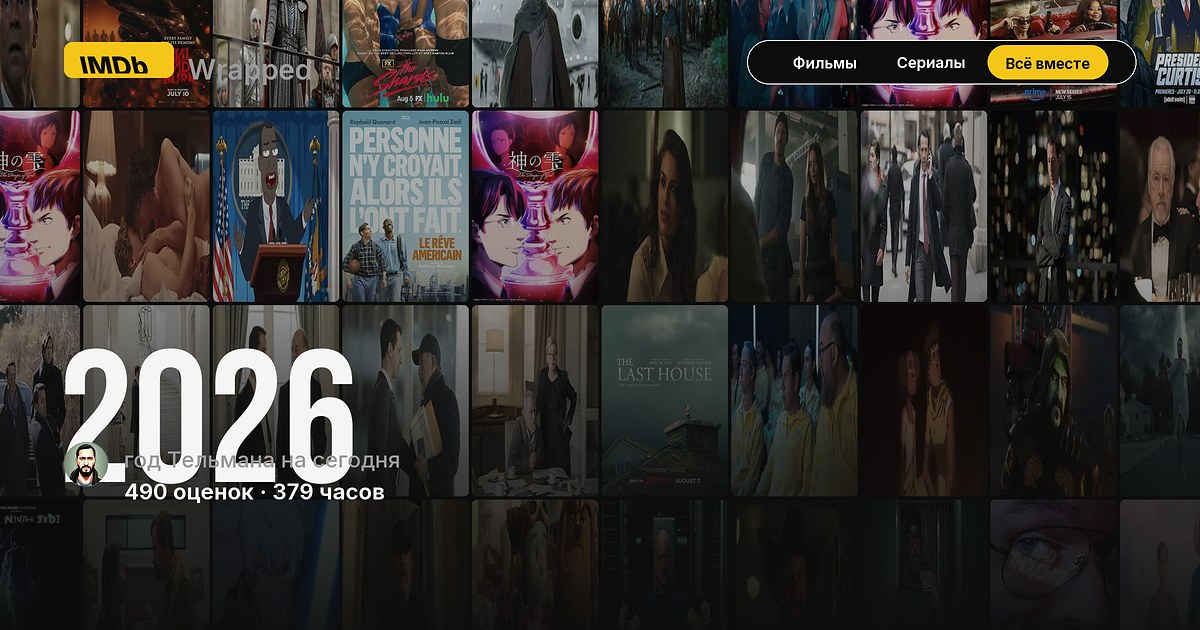
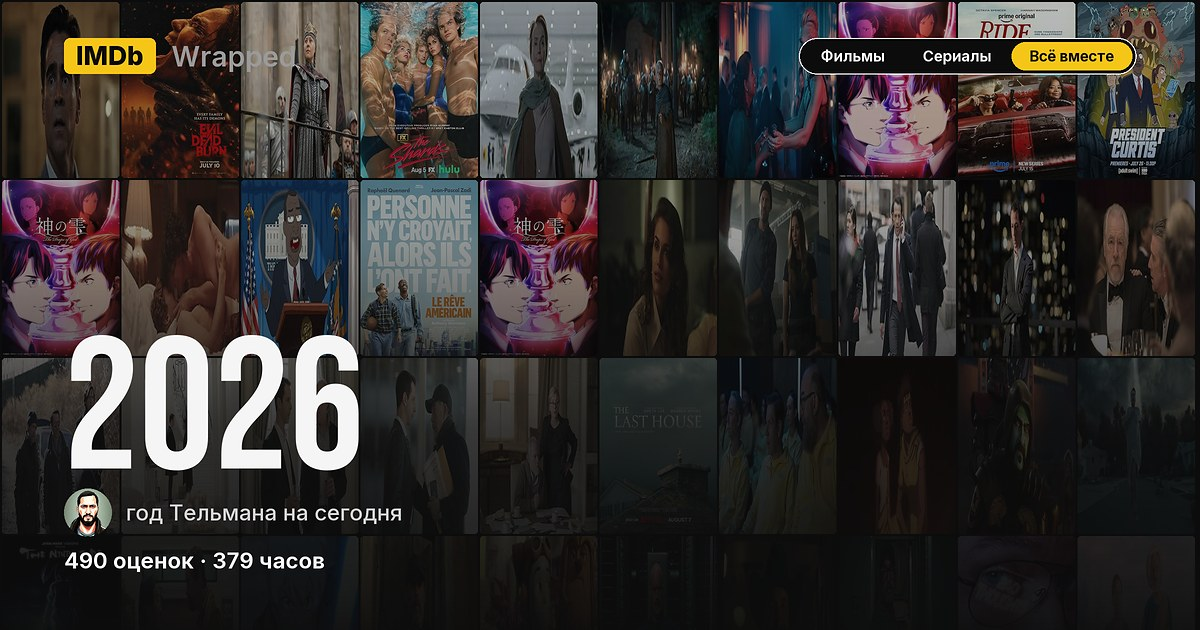
Align Open Graph cards so the year, brand, and kind switch sit on a clean grid.

diff --git a/scripts/build_og.py b/scripts/build_og.py
@@ -30,6 +30,7 @@ CTX = ssl.create_default_context()
 W, H = 1200, 630
 SCALE = 2
 CW, CH = W * SCALE, H * SCALE
+CACHE_BUST = "2"
 
 YELLOW = (245, 197, 24, 255)
 INK = (245, 245, 245, 255)
@@ -162,28 +163,24 @@ def round_poster(im: Image.Image, size: tuple[int, int], radius: int) -> Image.I
 
 def mosaic(posters: list[Image.Image]) -> Image.Image:
     cols = 10
-    cell_w = math.ceil(CW / cols)
-    cell_h = math.ceil(cell_w * 1.5)
-    rows = math.ceil(CH / cell_h) + 1
+    gap = 4
+    cell_w = (CW - gap * (cols + 1)) // cols
+    cell_h = round(cell_w * 1.5)
+    rows = math.ceil((CH + gap) / (cell_h + gap))
     need = cols * rows
     tiles = posters[:] or [Image.new("RGB", (cell_w, cell_h), (28, 28, 28))]
     while len(tiles) < need:
         tiles.extend(posters or tiles)
-    layer = Image.new("RGBA", (cols * cell_w, rows * cell_h), BG)
-    radius = max(4, round(8 * SCALE / 2))
+    layer = Image.new("RGBA", (CW, rows * (cell_h + gap) + gap), BG)
+    radius = 6
     for i in range(need):
-        x = (i % cols) * cell_w
-        y = (i // cols) * cell_h
-        tile = round_poster(tiles[i], (cell_w - 6, cell_h - 6), radius)
-        layer.paste(tile, (x + 3, y + 3), tile)
-    zoomed = layer.resize(
-        (math.ceil(layer.width * 1.08), math.ceil(layer.height * 1.08)),
-        Image.Resampling.LANCZOS,
-    )
-    left = (zoomed.width - CW) // 2
-    top = (zoomed.height - CH) // 4
-    crop = zoomed.crop((left, top, left + CW, top + CH))
-    return ImageEnhance.Color(crop).enhance(0.85)
+        col, row = i % cols, i // cols
+        x = gap + col * (cell_w + gap)
+        y = gap + row * (cell_h + gap)
+        tile = round_poster(tiles[i], (cell_w, cell_h), radius)
+        layer.paste(tile, (x, y), tile)
+    crop = layer.crop((0, 0, CW, CH))
+    return ImageEnhance.Color(crop).enhance(0.88)
 
 
 def shade(size: tuple[int, int]) -> Image.Image:
@@ -192,12 +189,12 @@ def shade(size: tuple[int, int]) -> Image.Image:
     pix = grad.load()
     for y in range(h):
         t = y / max(1, h - 1)
-        if t < 0.42:
-            a = 0.22 + (0.38 - 0.22) * (t / 0.42)
-        elif t < 0.72:
-            a = 0.38 + (0.78 - 0.38) * ((t - 0.42) / 0.30)
+        if t < 0.38:
+            a = 0.28 + (0.42 - 0.28) * (t / 0.38)
+        elif t < 0.68:
+            a = 0.42 + (0.82 - 0.42) * ((t - 0.38) / 0.30)
         else:
-            a = 0.78 + (0.96 - 0.78) * ((t - 0.72) / 0.28)
+            a = 0.82 + (0.97 - 0.82) * ((t - 0.68) / 0.32)
         pix[0, y] = int(255 * a)
     overlay = Image.new("RGBA", size, (12, 12, 12, 255))
     overlay.putalpha(grad.resize((w, h), Image.Resampling.BILINEAR))
@@ -205,61 +202,57 @@ def shade(size: tuple[int, int]) -> Image.Image:
 
 
 def text_size(draw: ImageDraw.ImageDraw, text: str, face: ImageFont.FreeTypeFont) -> tuple[int, int]:
-    box = draw.textbbox((0, 0), text, font=face)
+    box = draw.textbbox((0, 0), text, font=face, anchor="lt")
     return box[2] - box[0], box[3] - box[1]
 
 
-def italic_label(text: str, face: ImageFont.FreeTypeFont, fill: tuple[int, int, int, int], shear: float = 0.22) -> Image.Image:
-    probe = ImageDraw.Draw(Image.new("RGBA", (8, 8), (0, 0, 0, 0)))
-    tw, th = text_size(probe, text, face)
-    pad = 8
-    src = Image.new("RGBA", (tw + pad * 2, th + pad * 2), (0, 0, 0, 0))
-    ImageDraw.Draw(src).text((pad, pad), text, font=face, fill=fill)
-    extra = int(src.height * shear)
-    return src.transform(
-        (src.width + extra, src.height),
-        Image.Transform.AFFINE,
-        (1, -shear, extra, 0, 1, 0),
-        resample=Image.Resampling.BICUBIC,
-    )
+def draw_imdb_mark(base: Image.Image, x: int, cy: float, face: ImageFont.FreeTypeFont) -> tuple[int, int]:
+    draw = ImageDraw.Draw(base)
+    pad_x, pad_y = 12 * SCALE, 8 * SCALE
+    tw, th = text_size(draw, "IMDb", face)
+    w = tw + pad_x * 2
+    h = th + pad_y * 2
+    y = int(round(cy - h / 2))
+    draw.rounded_rectangle((x, y, x + w, y + h), radius=6 * SCALE, fill=YELLOW)
+    draw.text((x + w / 2, y + h / 2), "IMDb", font=face, fill=MARK_INK, anchor="mm")
+    return w, h
 
 
-def draw_imdb_mark(base: Image.Image, x: int, y: int, face: ImageFont.FreeTypeFont) -> int:
-    label = italic_label("IMDb", face, MARK_INK)
-    pad_x, pad_y = 14 * SCALE, 6 * SCALE
-    box = (x, y, x + label.width + pad_x * 2, y + label.height + pad_y * 2 - 4 * SCALE)
-    ImageDraw.Draw(base).rounded_rectangle(box, radius=8 * SCALE, fill=YELLOW)
-    base.alpha_composite(label, (x + pad_x, y + pad_y - 2 * SCALE))
-    return box[2] - box[0]
-
-
-def draw_kind_switch(base: Image.Image, lang: str, kind: str, face: ImageFont.FreeTypeFont) -> None:
+def draw_kind_switch(base: Image.Image, lang: str, kind: str, face: ImageFont.FreeTypeFont, cy: float) -> None:
     labels = [KIND_LABELS[lang][k] for k in KINDS]
     keys = list(KINDS)
     probe = ImageDraw.Draw(base)
-    pad_x, pad_y, gap = 28 * SCALE, 12 * SCALE, 4 * SCALE
-    widths = [text_size(probe, label, face)[0] + 36 * SCALE for label in labels]
-    bar_h = 44 * SCALE
-    bar_w = sum(widths) + gap * (len(labels) - 1) + pad_x * 2
+    inset = 4 * SCALE
+    item_pad = 18 * SCALE
+    gap = 2 * SCALE
+    bar_h = 36 * SCALE
+    widths = [text_size(probe, label, face)[0] + item_pad * 2 for label in labels]
+    bar_w = sum(widths) + gap * (len(labels) - 1) + inset * 2
     x0 = CW - 64 * SCALE - bar_w
-    y0 = 40 * SCALE
+    y0 = int(round(cy - bar_h / 2))
     ImageDraw.Draw(base).rounded_rectangle(
         (x0, y0, x0 + bar_w, y0 + bar_h),
         radius=bar_h // 2,
-        fill=(12, 12, 12, 148),
-        outline=(255, 255, 255, 36),
+        fill=(12, 12, 12, 170),
+        outline=(255, 255, 255, 40),
         width=2,
     )
-    cursor = x0 + pad_x
+    cursor = x0 + inset
+    pill_h = bar_h - inset * 2
     for key, label, tw in zip(keys, labels, widths):
         on = key == kind
-        pill = (cursor, y0 + gap + 2, cursor + tw, y0 + bar_h - gap - 2)
+        pill = (cursor, y0 + inset, cursor + tw, y0 + inset + pill_h)
         if on:
-            ImageDraw.Draw(base).rounded_rectangle(pill, radius=bar_h // 2, fill=YELLOW)
-        lw, lh = text_size(probe, label, face)
-        tx = cursor + (tw - lw) // 2
-        ty = y0 + (bar_h - lh) // 2 - 2 * SCALE
-        ImageDraw.Draw(base).text( (tx, ty), label, font=face, fill=MARK_INK if on else (245, 245, 245, 200))
+            ImageDraw.Draw(base).rounded_rectangle(pill, radius=pill_h // 2, fill=YELLOW)
+        cx = cursor + tw / 2
+        cy_pill = y0 + bar_h / 2
+        ImageDraw.Draw(base).text(
+            (cx, cy_pill),
+            label,
+            font=face,
+            fill=MARK_INK if on else (245, 245, 245, 210),
+            anchor="mm",
+        )
         cursor += tw + gap
 
 
@@ -368,41 +361,41 @@ def compose(base: Image.Image, avatar: Image.Image | None, faces: dict, text: di
     canvas = base.copy()
     draw = ImageDraw.Draw(canvas)
     pad = 64 * SCALE
-    mark_w = draw_imdb_mark(canvas, pad, 42 * SCALE, faces["mark"])
+    brand_cy = 56 * SCALE
+    mark_w, mark_h = draw_imdb_mark(canvas, pad, brand_cy, faces["mark"])
     draw.text(
-        (pad + mark_w + 14 * SCALE, 52 * SCALE),
+        (pad + mark_w + 16 * SCALE, brand_cy),
         "Wrapped",
         font=faces["wrapped"],
         fill=MUTED,
+        anchor="lm",
     )
-    draw_kind_switch(canvas, text["lang"], text["kind"], faces["pill"])
+    draw_kind_switch(canvas, text["lang"], text["kind"], faces["pill"], brand_cy)
 
     headline = text["headline"]
     if text["allTime"]:
         face = faces["all_ru"] if text["lang"] == "ru" else faces["all_en"]
     else:
         face = faces["bebas"]
-    hw, hh = text_size(draw, headline, face)
-    max_w = CW - pad * 2
-    if hw > max_w and not text["allTime"]:
-        # shrink numeric year if needed; shouldn't happen
-        face = faces["bebas_sm"]
-        hw, hh = text_size(draw, headline, face)
-    year_y = CH - pad - 118 * SCALE - hh
-    draw.text((pad - (6 * SCALE if not text["allTime"] else 0), year_y), headline, font=face, fill=INK)
 
-    row_y = year_y + hh - (4 * SCALE if text["allTime"] else 8 * SCALE)
+    bottom = CH - 56 * SCALE
+    draw.text((pad, bottom), text["kicker"], font=faces["inter_bold"], fill=INK, anchor="ld")
+    kicker_top = draw.textbbox((pad, bottom), text["kicker"], font=faces["inter_bold"], anchor="ld")[1]
+
+    av_size = 48 * SCALE
+    gap = 16 * SCALE
+    row_bottom = kicker_top - gap
+    row_top = row_bottom - av_size
+    row_cy = (row_top + row_bottom) / 2
     text_x = pad
-    av_size = 44 * SCALE
     if avatar is not None:
         av = circle(avatar, av_size)
-        ring = Image.new("RGBA", (av_size + 4, av_size + 4), (0, 0, 0, 0))
-        ImageDraw.Draw(ring).ellipse((0, 0, av_size + 3, av_size + 3), outline=(255, 255, 255, 36), width=2)
-        canvas.alpha_composite(ring, (pad - 2, row_y + 2))
-        canvas.alpha_composite(av, (pad, row_y + 4))
-        text_x = pad + av_size + 16 * SCALE
-    draw.text((text_x, row_y + 6 * SCALE), text["byline"], font=faces["inter"], fill=MUTED)
-    draw.text((text_x, row_y + 38 * SCALE), text["kicker"], font=faces["inter_bold"], fill=INK)
+        canvas.alpha_composite(av, (pad, int(round(row_top))))
+        text_x = pad + av_size + 14 * SCALE
+    draw.text((text_x, row_cy), text["byline"], font=faces["inter"], fill=(210, 210, 210, 255), anchor="lm")
+
+    year_bottom = row_top - 20 * SCALE
+    draw.text((pad, year_bottom), headline, font=face, fill=INK, anchor="ls")
     return canvas
 
 
@@ -504,7 +497,7 @@ def main() -> None:
                 card = compose(mosaic_cache[cache_id], avatar, faces, text)
                 rel = f"og/{lang}-{year_key}-{kind}.jpg"
                 save_card(card, PUBLIC / rel)
-                image = f"{site}/{rel}" if site else rel
+                image = f"{site}/{rel}?v={CACHE_BUST}" if site else rel
                 key = f"{lang}|{year_key}|{kind}"
                 pages[key] = {
                     "title": text["title"],
